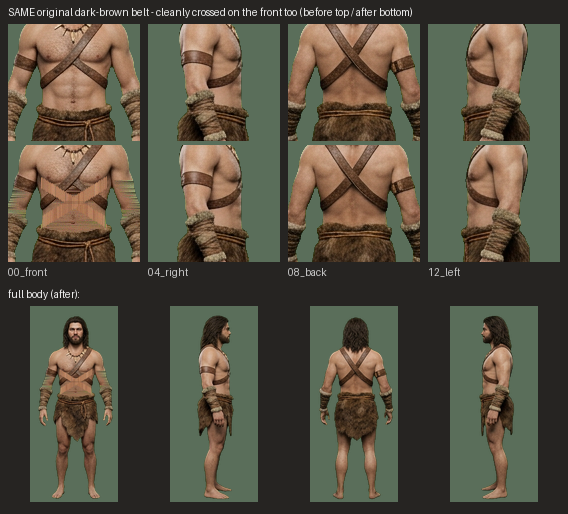
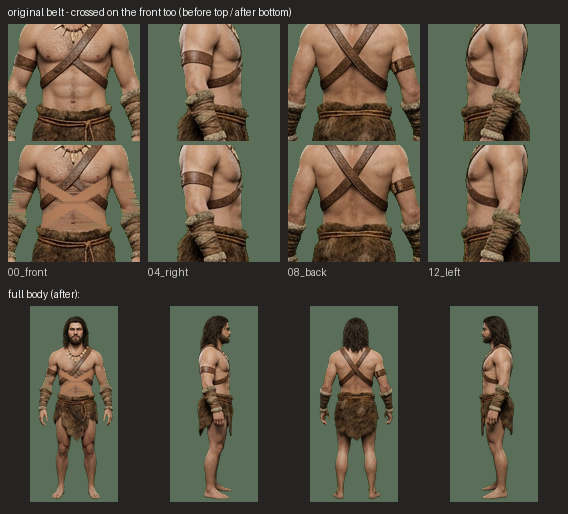
Fix belt flooding that flattened the chest + brighten straps to back-view contrast
The screenshot showed a dark, flat torso: the erase pass's region-grow
(fur+6 loose tolerance, uncapped) had flooded the whole chest on the front
views and inpainted it into a flat dark fill.

- grown_belt_mask: loose tolerance fur+13, growth capped at 6x seeds
- stray cleanup restricted to a narrow band around the drawn straps only
- straps now drawn with the measured leather colour + cylinder shading
  (raw donor pixels carried shadow-side dimming that made one strap
  invisible); brightness targets fur+26 contrast like the original back view
- new kept-pixel texture guard: compares luminance/texture of NON-belt
  vest pixels before/after and refuses to save a sprite if the inpaint
  damaged them (this is what would have caught the flooding)
- verify: straps checked only where the body has pixels; horizontal-band
  check compares against the pre-belt baseline (the art's own fur streaks
  are bright too) - all 10 front views across both sets pass

diff --git a/tools/redesign_torso_straps.py b/tools/redesign_torso_straps.py
@@ -26,8 +26,10 @@ the drawn straps is cleaned. Back/side views are never modified.
     python3 tools/redesign_torso_straps.py --check-only
 """
 
+import io
 import os
 import sys
+import zipfile
 import numpy as np
 from PIL import Image
 
@@ -124,8 +126,12 @@ def _dilate(m):
     return d
 
 
-def grown_belt_mask(rgba, ya, yb, cx, w_med, strict=20.0, loose=6.0):
-    """Every belt pixel: strict seeds region-grown with a looser tolerance."""
+def grown_belt_mask(rgba, ya, yb, cx, w_med, strict=16.0, loose=13.0, cap=6.0):
+    """Belt pixels: strict seeds region-grown with a looser tolerance.
+
+    ANTI-FLOOD: growth is capped at `cap` x the seed area - on bright front
+    views the general fur can sit close to the strap brightness, and an
+    uncapped grow would swallow the whole torso (which flattens the chest)."""
     al = rgba[:, :, 3]
     L = lum(rgba[:, :, :3])
     H, W = L.shape
@@ -135,10 +141,14 @@ def grown_belt_mask(rgba, ya, yb, cx, w_med, strict=20.0, loose=6.0):
     centre = np.abs(np.arange(W)[None, :] - cx) < w_med * 1.05
     body = al > 60
     mask = zone & body & centre & (L > fur + strict)
+    seeds = int(mask.sum())
+    if seeds == 0:
+        return mask, fur
+    limit = int(seeds * cap)
     while True:
         cand = _dilate(mask) & zone & body & centre & (L > fur + loose)
         new = cand & ~mask
-        if not new.any():
+        if not new.any() or int(mask.sum()) >= limit:
             break
         mask |= new
     return mask, fur
@@ -295,9 +305,22 @@ def process_front(dir_path, names, front_idx, angles, label, draw=True):
         tcx, tw = tprof
         rng = np.random.default_rng(abs(hash(name)) % (2 ** 32))
 
-        t_tone = strap_lum(target, tya, tyb, tcx, tw) or model["tone"]
+        zone0 = np.zeros(target.shape[:2], bool)
+        zone0[tya:tyb + 1, :] = True
+        centre0 = np.abs(np.arange(target.shape[1])[None, :] - tcx) < tw * 0.6
         belt_mask, _ = grown_belt_mask(target, tya, tyb, tcx, tw)
         erased = int(belt_mask.sum())
+        keep = zone0 & centre0 & (target[:, :, 3] > 60) & ~belt_mask
+
+        def kept_stats(arr):
+            Ls = lum(arr[:, :, :3])
+            return float(Ls[keep].mean()), float(Ls[keep].std())
+
+        pre_mean, pre_std = kept_stats(target)
+        t_tone = strap_lum(target, tya, tyb, tcx, tw) or model["tone"]
+        # match the back view's leather-vs-fur contrast so the belt reads clearly
+        fur_t = fur_median(target, tya, tyb, tcx, tw)
+        t_tone = max(t_tone, fur_t + 26.0)
         inpaint(target, belt_mask, rng)
 
         # model params in target space
@@ -314,6 +337,8 @@ def process_front(dir_path, names, front_idx, angles, label, draw=True):
         allowed = np.zeros((H, W), bool)
         for xt in body_cols:
             rowA, rowB, s = strap_rows(model, tcx, r_t, y0, k_t, view, xt)
+            delta = np.arcsin(np.clip((xt - tcx) / max(r_t, 1.0), -1.0, 1.0))
+            shade = 0.86 + 0.14 * np.cos(delta)      # cylinder shading: lit centre
             for (row, half, leather) in ((rowA, model["halfA"], model["leatherA"]),
                                          (rowB, model["halfB"], model["leatherB"])):
                 lo, hi = int(round(row - half - 4)), int(round(row + half + 4))
@@ -324,19 +349,7 @@ def process_front(dir_path, names, front_idx, angles, label, draw=True):
                     if not (0 <= yti < H) or al[yti, xt] <= 60:
                         continue
                     a = np.clip((half + 0.5 - abs(dy)) / 1.6, 0.0, 1.0)
-                    # donor colour at the same 3D phase
-                    xd = int(round(tcx - np.sin(np.deg2rad(180.0) + np.deg2rad(view) +
-                                                np.arcsin(np.clip((xt - tcx) / max(r_t, 1.0), -1, 1)))
-                                   * (model["r_rel"] * 2 * tbh) / 2 * 2 / 2))  # phase-mirrored column
-                    xd = int(round(tcx - (xt - tcx)))          # simple mirror is accurate enough
-                    yd = int(round(y0 + (row - y0)))           # same row height on the donor art
-                    if 0 <= yd < donor.shape[0] and 0 <= xd < donor.shape[1]:
-                        src = donor[yd, xd, :3]
-                        if lum(src[None, :])[0] < model["tone"] - 20:
-                            src = leather
-                    else:
-                        src = leather
-                    col = np.clip(src * scale, 0, 255) + rng.normal(0, 2.5, 3)
+                    col = np.clip(leather * scale * shade, 0, 255) + rng.normal(0, 2.5, 3)
                     a3 = a * 0.96
                     target[yti, xt, :3] = np.clip(target[yti, xt, :3] * (1 - a3) + col * a3, 0, 255)
                     painted += 1
@@ -348,31 +361,60 @@ def process_front(dir_path, names, front_idx, angles, label, draw=True):
                     if 0 <= yy < H and al[yy, xt] > 60:
                         target[yy, xt, :3] *= 0.90
 
-        # clean every bright pixel that is not one of the drawn straps
+        # clean leftover bright pixels ONLY in a narrow band around the drawn
+        # straps (never touch the rest of the fur - that is what flattened the
+        # chest on the 8-dir set)
         L = lum(target[:, :, :3])
         fur = fur_median(target, tya, tyb, tcx, tw)
         centre = np.abs(np.arange(W)[None, :] - tcx) < tw * 0.95
         zone = np.zeros((H, W), bool)
         zone[tya + 1:tyb, :] = True
-        stray = (L > fur + 10.0) & (al > 60) & centre & zone & ~allowed
+        near = allowed.copy()
+        for _ in range(4):
+            near = _dilate(near)
+        stray = (L > fur + 14.0) & (al > 60) & centre & zone & near & ~allowed
         strays = int(stray.sum())
         if strays:
             inpaint(target, stray, rng)
 
-        if draw:
+        post_mean, post_std = kept_stats(target)
+        d_mean, d_std = post_mean - pre_mean, post_std - pre_std
+        texture_ok = (d_mean > -6.0) and (d_std > -7.0)
+        if not texture_ok:
+            print(f"    !! {name}: vest texture damaged (lum {pre_mean:.0f}->{post_mean:.0f}, "
+                  f"std {pre_std:.0f}->{post_std:.0f}) - NOT saved")
+        if draw and texture_ok:
             Image.fromarray(target.astype(np.uint8)).save(os.path.join(dir_path, name + ".png"))
-        print(f"    {name:26s} erased {erased:5d}px remnants, drew {painted:5d}px straps, "
-              f"cleaned {strays:4d}px strays")
+        print(f"    {name:26s} erased {erased:5d}px, drew {painted:5d}px straps, cleaned {strays:4d}px; "
+              f"vest lum {pre_mean:.0f}->{post_mean:.0f} std {pre_std:.0f}->{post_std:.0f} "
+              f"{'ok' if texture_ok else 'TEXTURE DAMAGED'}")
+
+
+def band_row_count(rgba, ya, yb, cx, w_med, fur):
+    """Rows where bright pixels span the torso (old bands OR fur streaks OR
+    the strap crossing) - compared against the pre-belt baseline."""
+    al = rgba[:, :, 3]
+    L = lum(rgba[:, :, :3])
+    cnt = 0
+    for y in range(ya, yb + 1):
+        xs_ = np.where((al[y] > 60) & (np.abs(np.arange(L.shape[1]) - cx) < w_med * 0.85))[0]
+        if len(xs_) < 20:
+            continue
+        if (L[y, xs_] > fur + 13).mean() > 0.60:
+            cnt += 1
+    return cnt
 
 
 def verify_set(dir_path, names, front_idx, angles, label):
-    """Front views: straps must appear at the MODEL-predicted rows, cleanly."""
+    """Front views: straps must appear at the MODEL-predicted rows (wherever
+    the body actually has pixels), and no NEW horizontal bands vs pre-belt."""
     print(f"--- verify {label}")
     n = len(names)
     donor = np.asarray(Image.open(os.path.join(dir_path, names[CLEAN_DONOR[n]] + ".png"))
                        .convert("RGBA")).astype(float)
     model = measure_belt(donor)
-    max_w = 22 if n == 16 else 42
+    zpath = os.path.join(ROOT, "tools", "originals_backup.zip")
+    zfile = zipfile.ZipFile(zpath) if os.path.exists(zpath) else None
     ok = True
     for i, name in enumerate(names):
         rgba = np.asarray(Image.open(os.path.join(dir_path, name + ".png")).convert("RGBA")).astype(float)
@@ -386,7 +428,7 @@ def verify_set(dir_path, names, front_idx, angles, label):
         centre = np.abs(np.arange(L.shape[1])[None, :] - cx) < w_med * 0.85
         zone = np.zeros(L.shape, bool)
         zone[ya:yb + 1] = True
-        m = (L > fur + 17.0) & (al > 60) & centre & zone
+        m = (L > fur + 13.0) & (al > 60) & centre & zone
         if i in front_idx:
             view = angles(i)
             k_t = model["k_rel"] * bh
@@ -394,30 +436,50 @@ def verify_set(dir_path, names, front_idx, angles, label):
             r_t = w_med * 0.5
             good_cols = 0
             total_cols = 0
-            messy = 0
+            band_rows = 0
             for x in range(int(cx - r_t * 0.95), int(cx + r_t * 0.95)):
                 if (al[ya:yb, x] > 60).sum() < 8:
                     continue
                 total_cols += 1
                 rowA, rowB, s = strap_rows(model, cx, r_t, y0, k_t, view, x)
                 col = np.where(m[:, x])[0]
-                runs = np.split(col, np.where(np.diff(col) > 3)[0] + 1) if len(col) else []
-                if len(runs) > 3 or (runs and max(len(r) for r in runs) > max_w):
-                    messy += 1
-                near = any(any(abs(r - row) <= 6 for r in col) for row in (rowA, rowB))
-                # both straps must show when they are separated enough
-                if abs(rowA - rowB) > 2.5 * max(model["halfA"], 2.0):
-                    near = near and all(any(abs(r - row) <= 6 for r in col) for row in (rowA, rowB))
+
+                def strap_shows(row):
+                    if any(abs(r - row) <= 7 for r in col):
+                        return True
+                    # not drawn: fine only if there is no body at that row
+                    yy = np.arange(max(0, int(row) - 5), min(L.shape[0], int(row) + 6))
+                    return not ((al[yy, x] > 60).any())
+
+                near = strap_shows(rowA) and strap_shows(rowB)
                 good_cols += 1 if near else 0
+            # no NEW horizontal bands vs the pre-belt baseline (the art's own
+            # fur streaks and the strap crossing both count, hence the margin)
+            pre_n = 0
+            if zfile is not None:
+                try:
+                    pre = np.asarray(Image.open(io.BytesIO(zfile.read(os.path.join(os.path.relpath(dir_path, ROOT), name + ".png"))))
+                                     .convert("RGBA")).astype(float)
+                    pya, pyb = zone_of(pre)[0]
+                    pp = zone_of(pre)[1]
+                    if pp is not None:
+                        pre_n = band_row_count(pre, pya, pyb, pp[0], pp[1],
+                                               fur_median(pre, pya, pyb, pp[0], pp[1]))
+                except KeyError:
+                    pass
+            band_rows = band_row_count(rgba, ya, yb, cx, w_med, fur)
+            if band_rows > pre_n + 8:
+                status_bands = f"NEW HORIZONTAL BANDS ({band_rows} vs pre {pre_n})"
+                ok = False
+            else:
+                status_bands = ""
             cover = good_cols / max(total_cols, 1)
             status = "ok"
             if cover < 0.70:
                 status = f"STRAPS MISSING AT MODEL ROWS ({good_cols}/{total_cols})"
                 ok = False
-            if messy > total_cols * 0.15:
-                status += f" MESSY ({messy}/{total_cols} cols)"
-                ok = False
-            print(f"    {name:26s} model-match {good_cols}/{total_cols} cols, messy {messy}  {status}")
+            status += status_bands
+            print(f"    {name:26s} model-match {good_cols}/{total_cols} cols, band rows {band_rows}  {status}")
         else:
             print(f"    {name:26s} original belt untouched ({int(m.sum())}px)")
     if ok:
